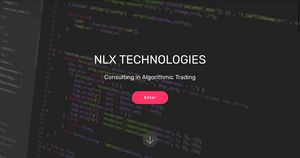
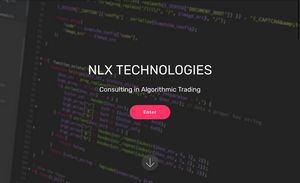
update text

diff --git a/index.html b/index.html
@@ -108,7 +108,7 @@
 
     <div class="container">
         <div class="media-container-row">
-            <div class="mbr-text col-12 mbr-fonts-style display-7 col-md-10"><p>Commodity Trading Advisor specialized in the arbitrage of US equity index futures markets during night sessions. I have designed and managed several trading strategies for well-known CTAs and Portfolio Managers.</p><p><span style="font-size: 1rem;">I offer consulting services in financial trading for individuals, wealth managers and institutions.</span><br></p></div>
+            <div class="mbr-text col-12 mbr-fonts-style display-7 col-md-10"><p style="text-align:justify">Commodity Trading Advisor specialized and recognised in the arbitrage of US equity index futures markets during night sessions. I have designed and launched several trading strategies for well-known CTAs and Portfolio Managers.</p><p><span style="font-size: 1rem;">I offer consulting services in financial trading for individuals, wealth managers and institutions.</span><br></p></div>
         </div>
     </div>
 </section>
@@ -135,7 +135,7 @@
         <div class="media-container-row">
             <div class="title col-12 col-md-8">
                 <h2 class="align-center pb-3 mbr-fonts-style display-2">Dynamic Portfolio Analysis</h2>
-                <h3 class="mbr-section-subtitle align-center mbr-light mbr-fonts-style display-5">Portfolio that adjust dynamically to settings</h3>
+                <h3 class="mbr-section-subtitle align-center mbr-light mbr-fonts-style display-5">Portfolios that adjust dynamically to settings</h3>
                 
             </div>
         </div>
@@ -261,7 +261,7 @@
         <div class="row justify-content-center">
             <div class="media-container-column col-lg-8" data-form-type="formoid">
                 <!---Formbuilder Form--->
-                <form action="https://mobirise.com/" method="POST" class="mbr-form form-with-styler" data-form-title="Mobirise Form"><input type="hidden" name="email" data-form-email="true" value="SVeqAvRX20n3gYD8WN3aqvBOrcs+hl49gWX+s5g+dx/R+53PI/eo8tsTNyReCSBTypfEXfRsfxJQtNC/KoL/n706KqR2mmsb0qRe0HAFXoYIWhK5t3fLQLJKbdifMtZ0.pDKoKk6A3UHHEYIkwYyiwzMK2fGqgHQGUzb7R1zrjRSpuDqzDznXVnNplQrTlwawVIZuhBF+MiRQQ8FVtUXVb+7DeCPLCSlACDpXI3TZKMqKer3gH8H2T+CqbfFq7EpL">
+                <form action="https://mobirise.com/" method="POST" class="mbr-form form-with-styler" data-form-title="Mobirise Form"><input type="hidden" name="email" data-form-email="true" value="SHv8avUfuP6Eus45fet2Id7HVaisi73mwZqYqd6jN2v/f1qBi0cEpNb1KeLvCMDWUdkB26EeStL2gAbN9wFGi7PMqZeyD5+LImT/Jis8Cq+WNuAZpsstQG/GHXVJi2f9.T0LMWHIuw5ZRPyhZ/mKGSRkLWoNWckheY7h6YEr79Njb/UCYDntFUAMCGCd+Q2W1mQjjGSwrFTacj5lyYA+9ggQd3+PaP68Qsl71YCZMlQfQzaP8x42OC/PEjysMmcoT">
                     <div class="row">
                         <div hidden="hidden" data-form-alert="" class="alert alert-success col-12">Thanks for filling out the form!</div>
                         <div hidden="hidden" data-form-alert-danger="" class="alert alert-danger col-12">
@@ -324,7 +324,7 @@
                     </div></div>
             </div>
             <div class="row row-copirayt">
-                <p class="mbr-text mb-0 mbr-fonts-style mbr-white align-center display-7">NLX TECHNOLOGIES Limited © 2019</p>
+                <p class="mbr-text mb-0 mbr-fonts-style mbr-white align-center display-7">NLX TECHNOLOGIES Limited © 2020</p>
             </div>
         </div>
     </div>

diff --git a/disclaimer.html b/disclaimer.html
@@ -105,7 +105,7 @@
                     </div></div>
             </div>
             <div class="row row-copirayt">
-                <p class="mbr-text mb-0 mbr-fonts-style mbr-white align-center display-7">NLX TECHNOLOGIES Limited © 2019</p>
+                <p class="mbr-text mb-0 mbr-fonts-style mbr-white align-center display-7">NLX TECHNOLOGIES Limited © 2020</p>
             </div>
         </div>
     </div>

diff --git a/assets/mobirise/css/mbr-additional.css b/assets/mobirise/css/mbr-additional.css
@@ -840,7 +840,7 @@ section.lazy-placeholder:after {
 }
 .cid-rE21BvKXcE {
   padding-top: 0px;
-  padding-bottom: 75px;
+  padding-bottom: 45px;
   background-color: #ffffff;
 }
 .cid-rE21BvKXcE .mbr-text {
